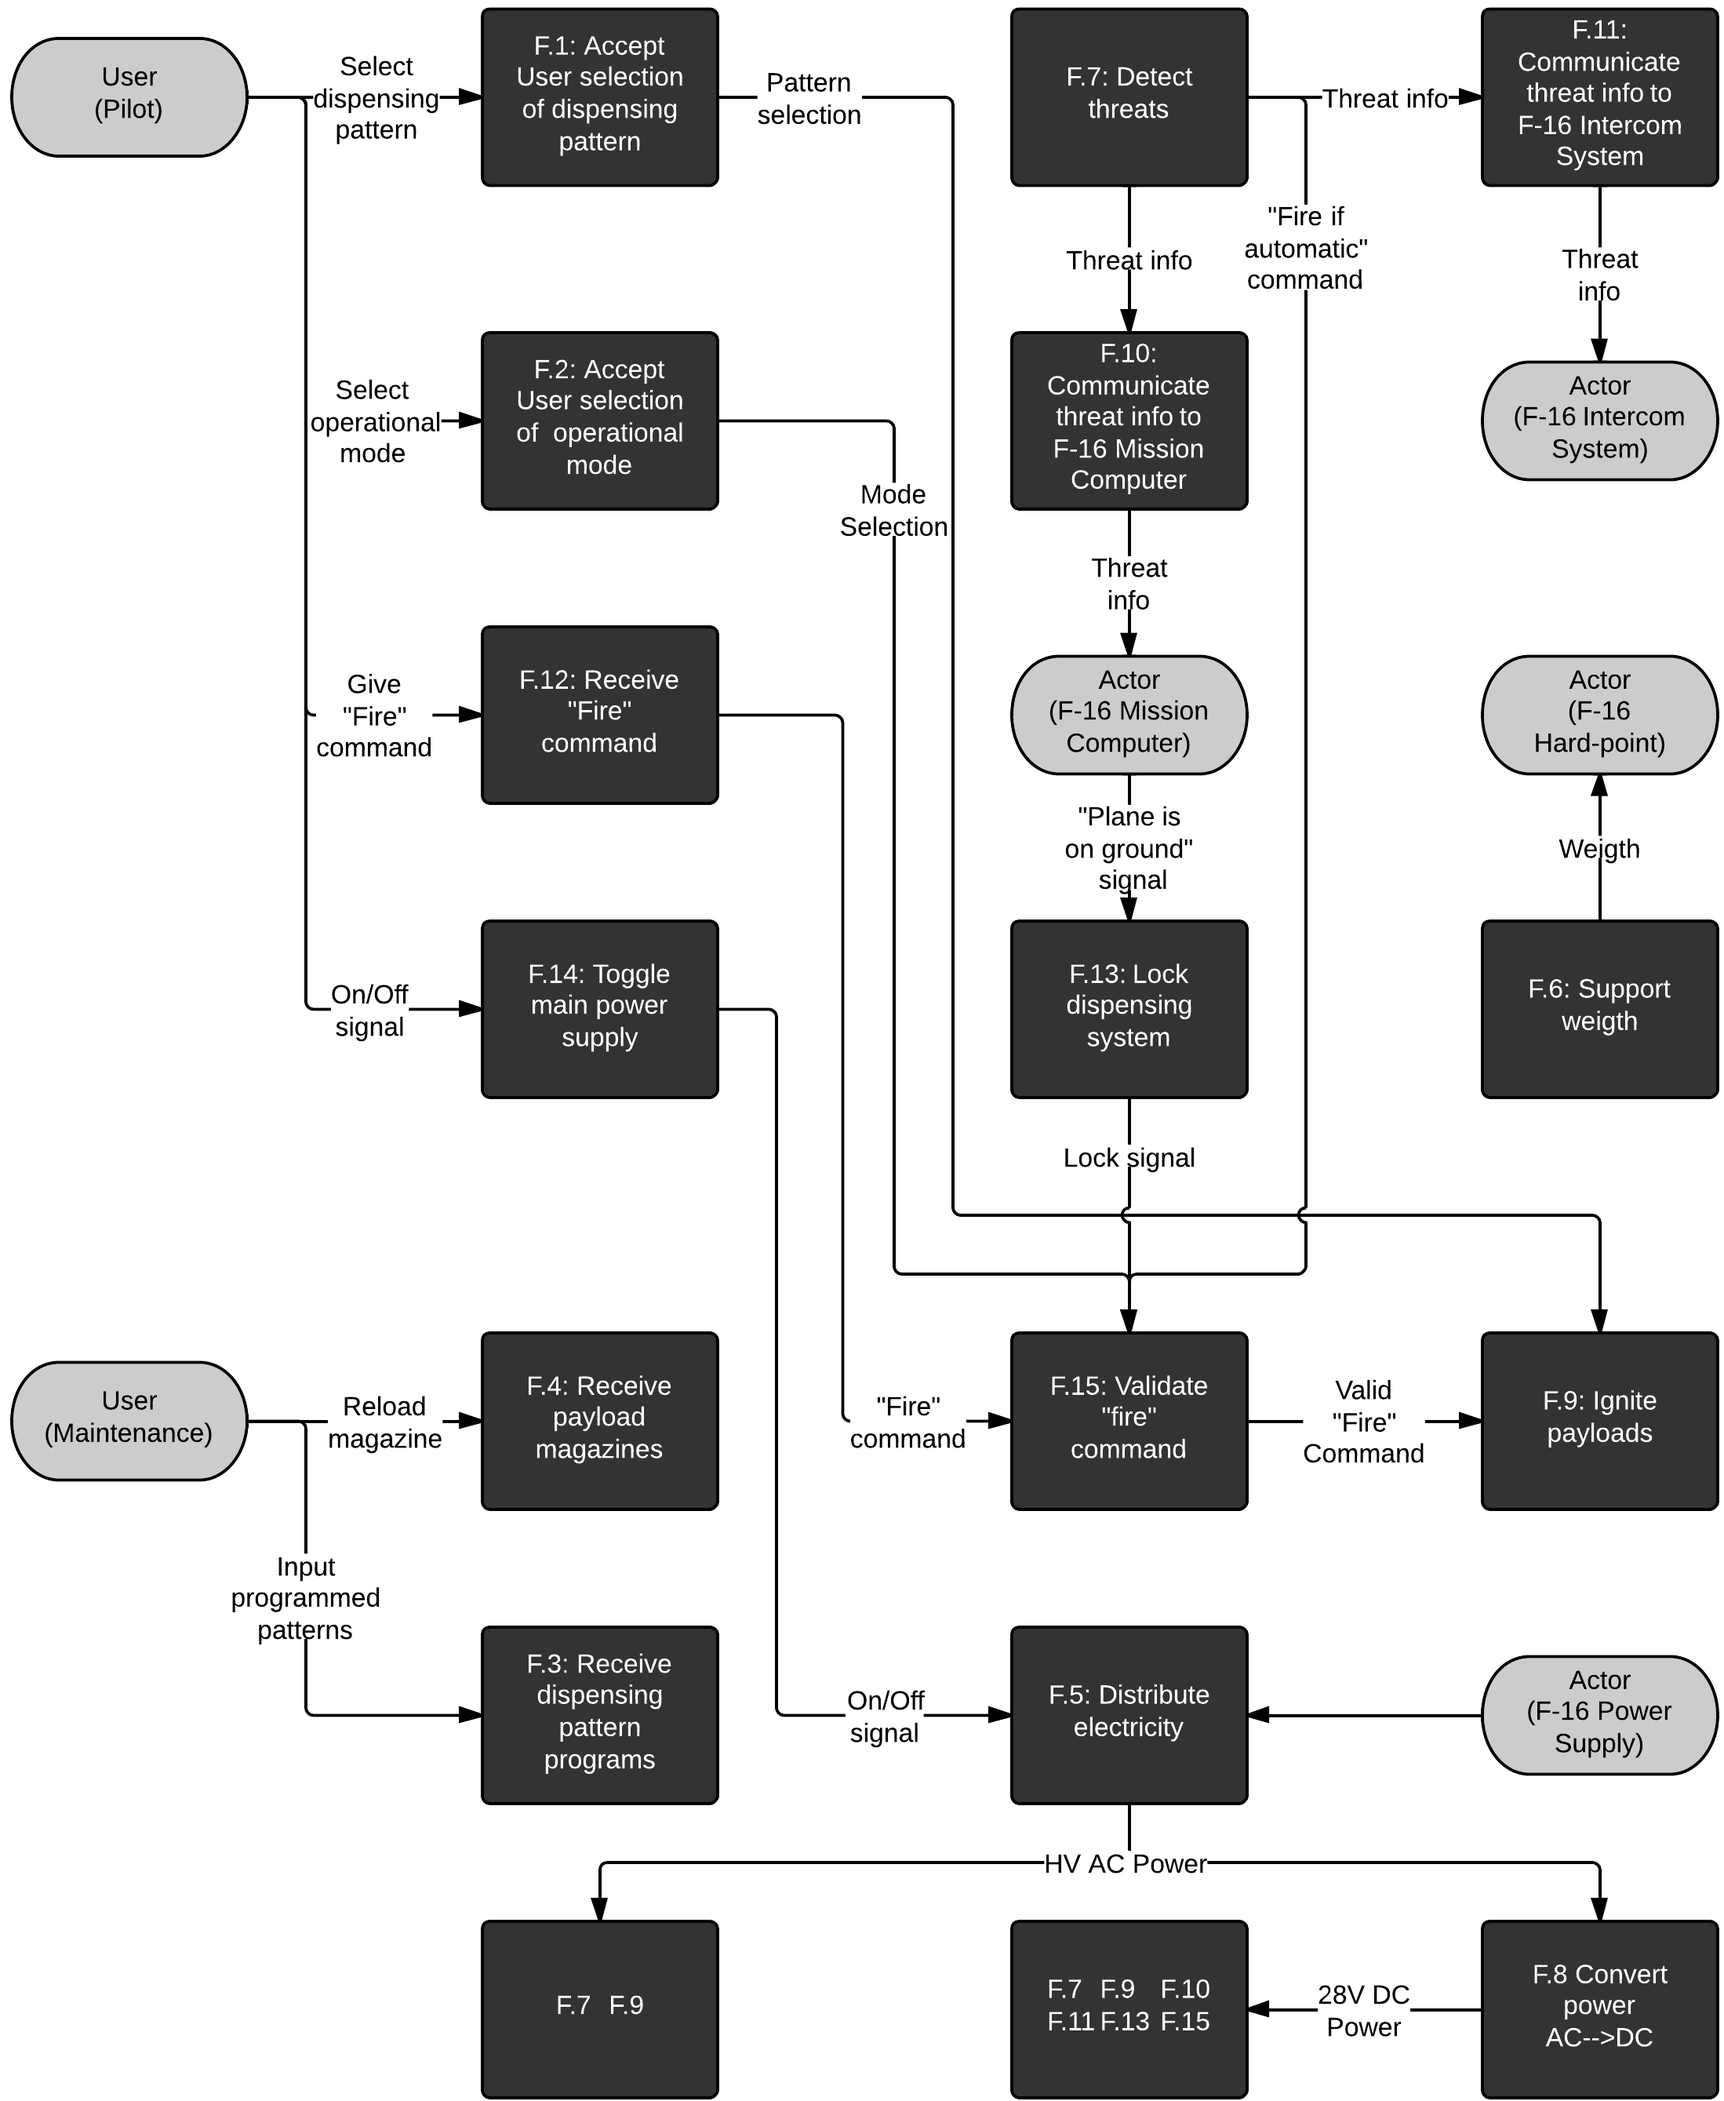
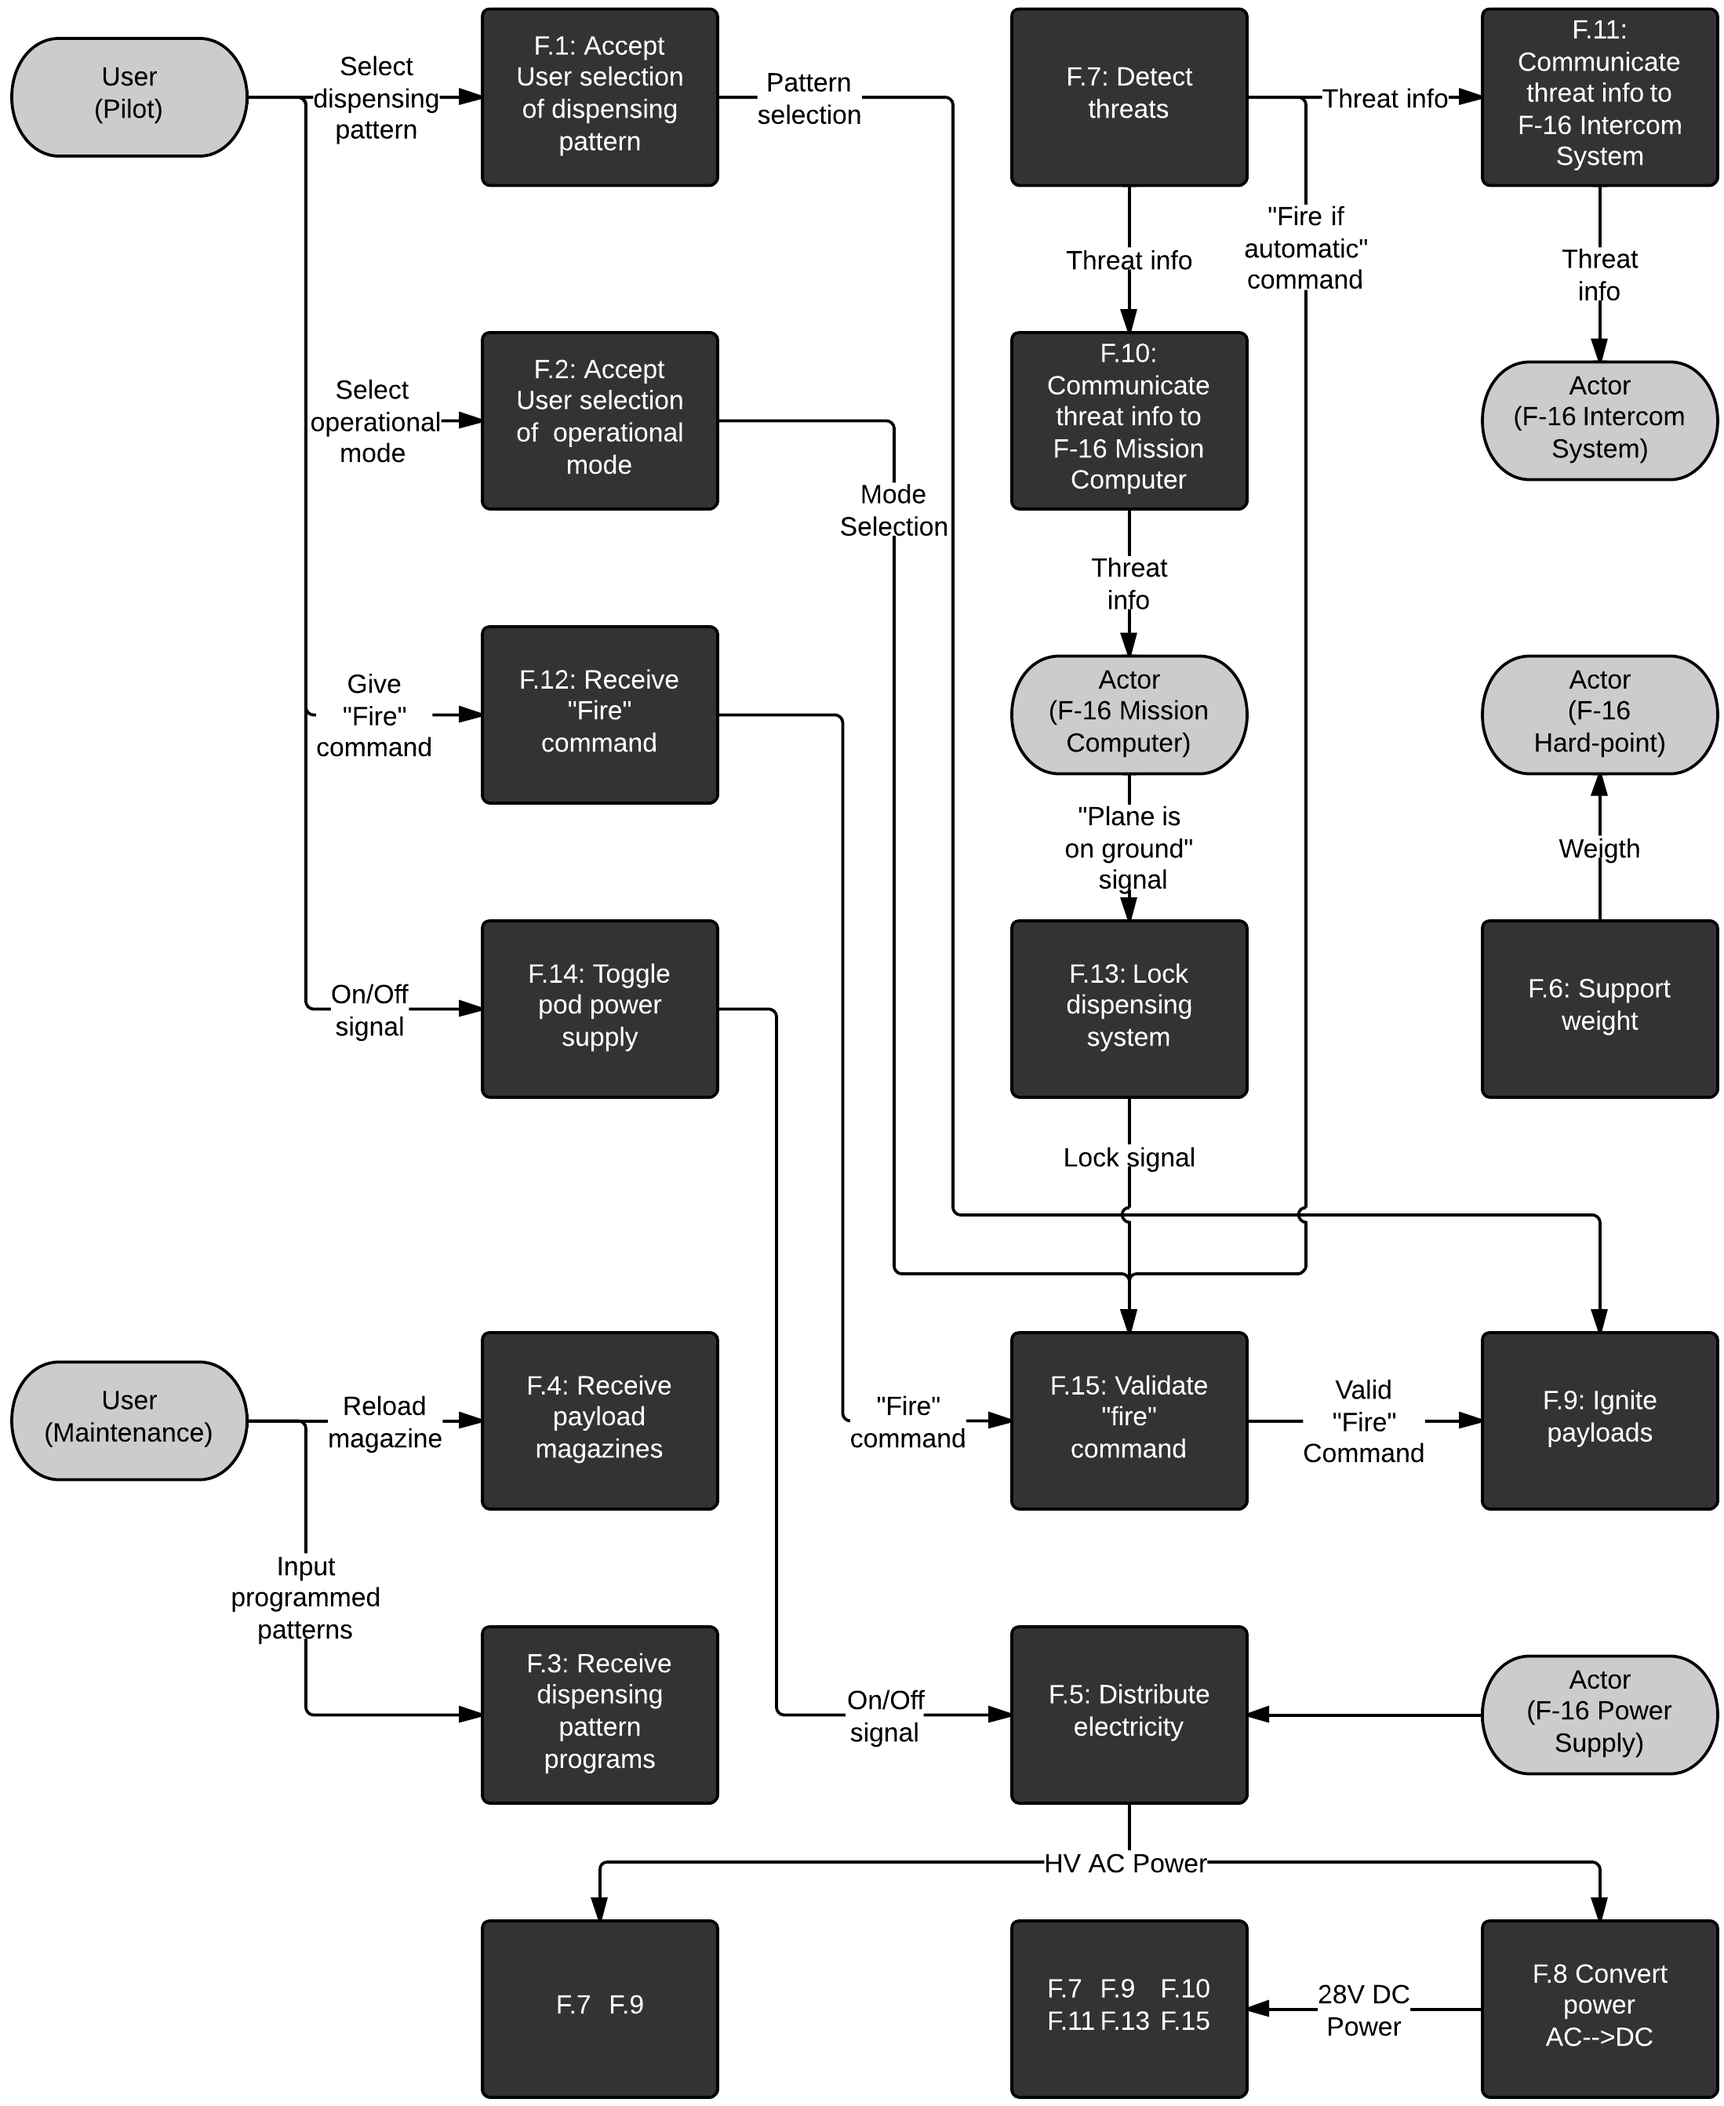
Add list of functionality

diff --git a/Document/SystemArchitecturalDesign.tex b/Document/SystemArchitecturalDesign.tex
@@ -3,6 +3,41 @@
 
 
 \chapter{System architectural design}
+\section{System functional design}
+This section describes the functional design and architecture of the system.
+This is also illustrated in Figure \ref{fig:FFD} below.
+
+\begin{figure}[H]
+\centering
+\includegraphics[width=0.80\textwidth]{FunctionalFlowDiagram}
+\caption{Functional Flow Diagram}
+\label{fig:FFD}
+\end{figure}
+
+\subsection{System functions}
+\begin{enumerate}[label=F.\arabic*:]
+\item Accept User selection of dispensing pattern
+\item Accept User selection of operational mode
+\item Receive dispensing pattern programs
+\item Receive payload magazines
+\item Distribute electricity
+\item Support weight
+\item Detect threats
+\item Convert power AC/DC
+\item Ignite payloads
+\item Communicate threat info to F-16 Mission Computer
+\item Communicate threat info to F-16 Intercom System
+\item Receive "Fire" command
+\item Lock dispensing system
+\item Toggle pod power supply
+\item Validate "fire" command
+
+
+
+
+\end{enumerate}
+
+
 In Figure \ref{fig:ComponentsAndInterfaces} an overview of the the complete systems components and interfaces is shown. Each component and interface will described and linked with system requirements in the folllowing sections.
 
 \begin{figure}[H]

diff --git a/Document/SystemWideDesignDecisions.tex b/Document/SystemWideDesignDecisions.tex
@@ -4,12 +4,6 @@
 \setcounter{chapter}{2}
 \chapter{System-wide design decisions}
 
-\begin{figure}[H]
-\centering
-\includegraphics[width=0.97\textwidth]{FunctionalFlowDiagram}
-\caption{Functional diagram}
-\end{figure}
-
 
 \section{Inputs and outputs}
 %Design decisions regarding inputs the system will accept and outputs it will produce.
